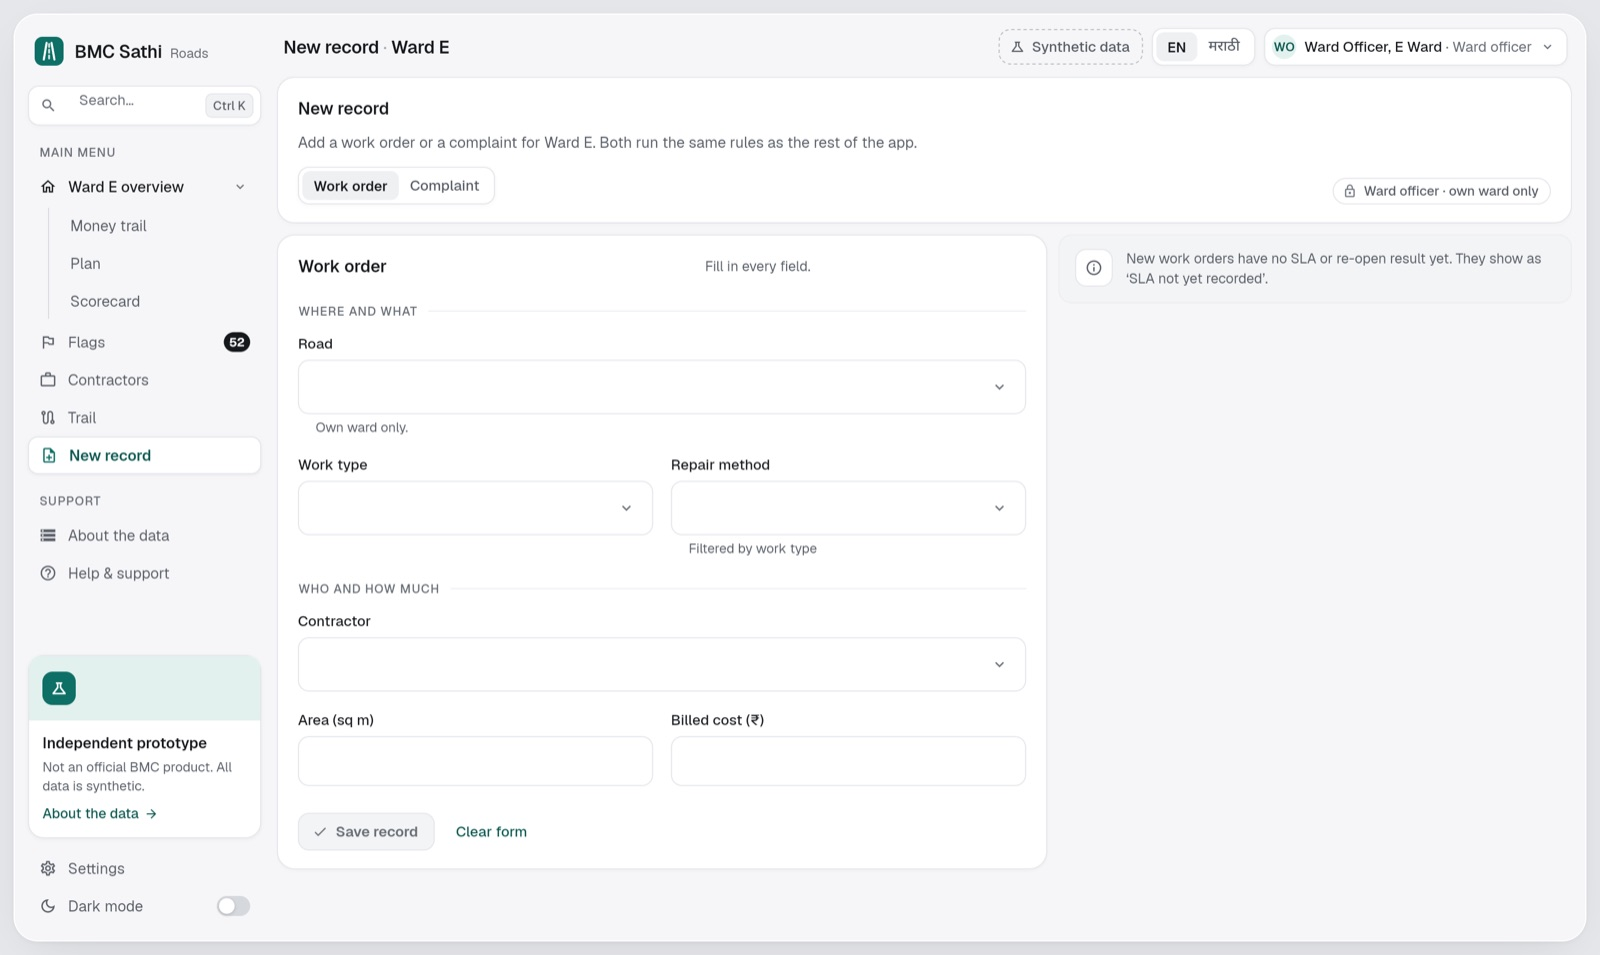
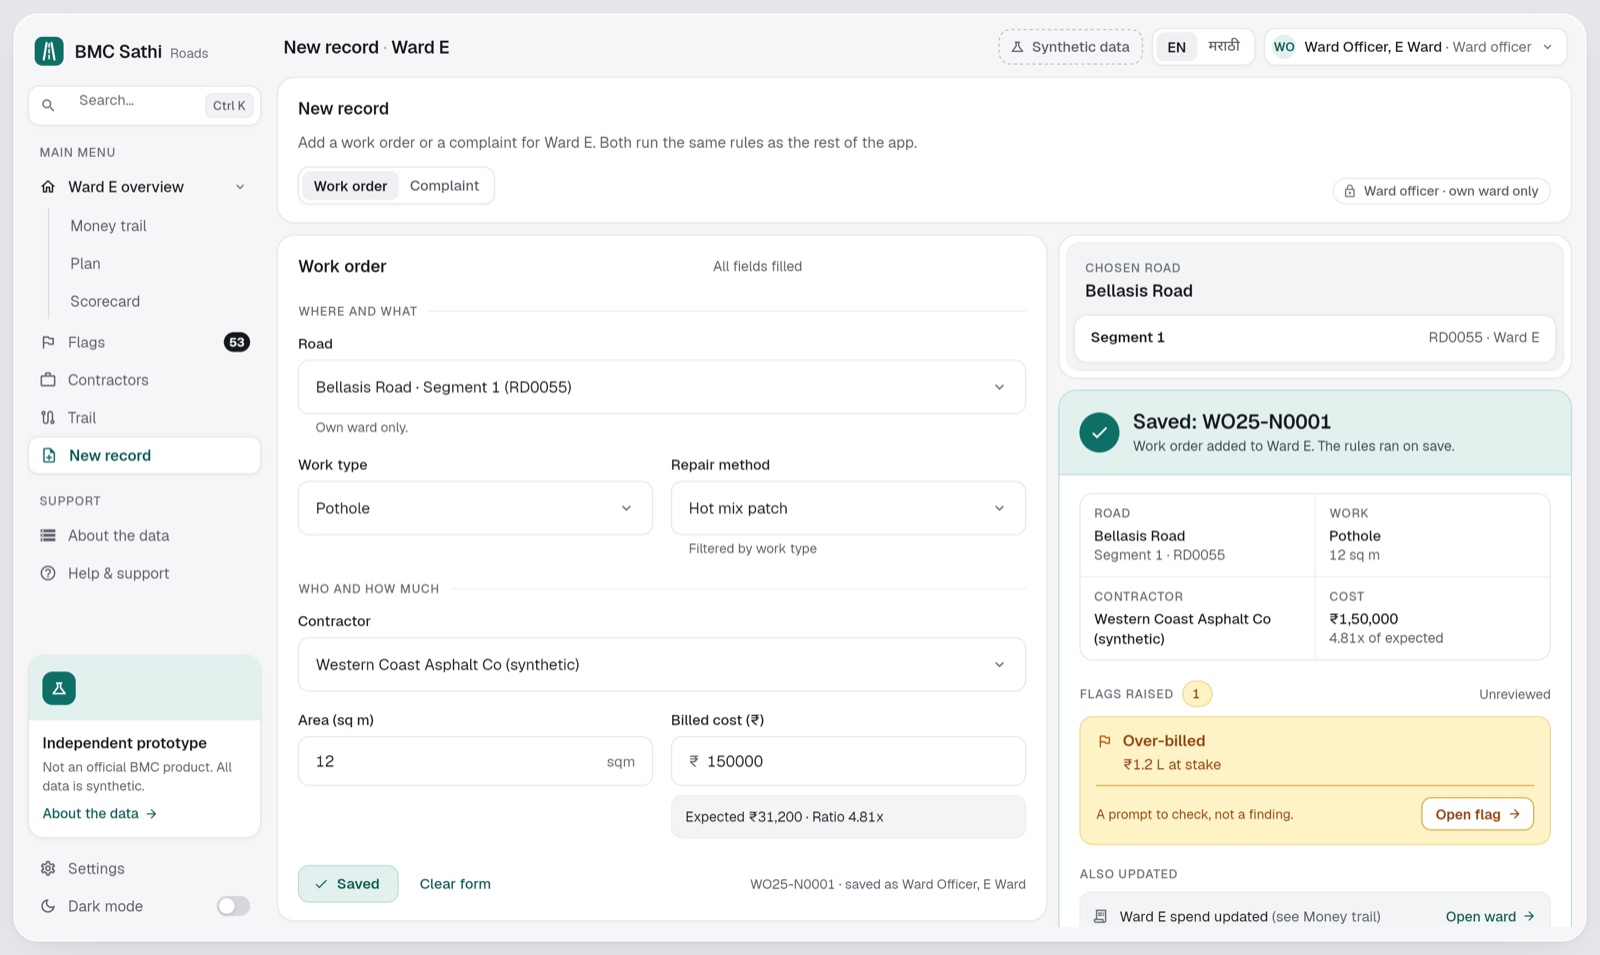
README: retake money trail, plan, trail and new-record screenshots; drop cold-start notes (Starter plan)

diff --git a/README.md b/README.md
@@ -7,7 +7,6 @@ Follow each rupee of Mumbai's monsoon road spend, from complaint to repair to ou
 > **Note:** Independent prototype, not an official BMC product. All data in this repository is synthetic.
 
 **Live demo: [bmc-sathi.onrender.com](https://bmc-sathi.onrender.com)**. Tap a demo account on the sign-in page; no password needed.
-It runs on Render's free plan, so the first visit after a quiet spell takes 30 to 50 seconds to wake up.
 
 ![City overview: budget, spend, open flags and wards over budget](docs/screenshots/overview.jpg)
 
@@ -186,7 +185,7 @@ flutter run -d web-server --web-port 5173 --web-hostname localhost \
 
 7. **New record** (ward officer): enter a work order billed well above the rate card; it is flagged on save.
 
-   ![New record form for a ward officer](docs/screenshots/intake.jpg)
+   ![New record: a pothole patch billed at 4.81x the rate card, flagged as over-billed on save](docs/screenshots/intake.jpg)
 
 8. **Trail**: search a complaint id, work order id, road or locality.
 
@@ -432,6 +431,7 @@ flowchart LR
 | Root directory | `apps/api` |
 | Build command | `npm ci && npx prisma generate` |
 | Start command | `npx tsx src/server.ts` |
+| Instance type | Starter, always on |
 | Branch | `main`, auto-deploy on every push |
 | Environment | `DATABASE_URL` (Neon pooled), `DIRECT_URL` (Neon direct), `JWT_SECRET`, `ANTHROPIC_API_KEY`, `NODE_VERSION=22` |
 
@@ -459,7 +459,7 @@ rm -rf ../api/public && cp -R build/web ../api/public
 - Claude's reading of complaints (translation, category, severity) and its matching of social posts were spot-checked, not measured against a labelled set.
 - `npm run db:summarise` is not part of `db:setup`. Summaries are not rewritten automatically when figures change; the page marks them as written before recent changes until it is run again.
 - The Ask rate limit (10 questions a minute per user) is kept in the API's memory, so it resets on restart and is not shared between instances.
-- The live demo is on Render's free plan: it sleeps when idle, and all visitors share one database, so decisions and settings changed there stay changed.
+- All visitors to the live demo share one database, so decisions and settings changed there stay changed.
 - The web build in `apps/api/public` is updated by hand (see [Deployment](#deployment)); a push that changes only `apps/web` does not change the live site.
 - The API has no linter configured, and no CI runs the tests.
 - The overview map uses real BMC ward boundaries (`apps/web/assets/geo/wards.geojson`) over OpenStreetMap's public tile server, so it needs a network connection, and that server is not meant for heavy use. Everything plotted on it (spend, flags) is synthetic. `data/wards.geojson` is the challenge's simplified file and is no longer drawn.
